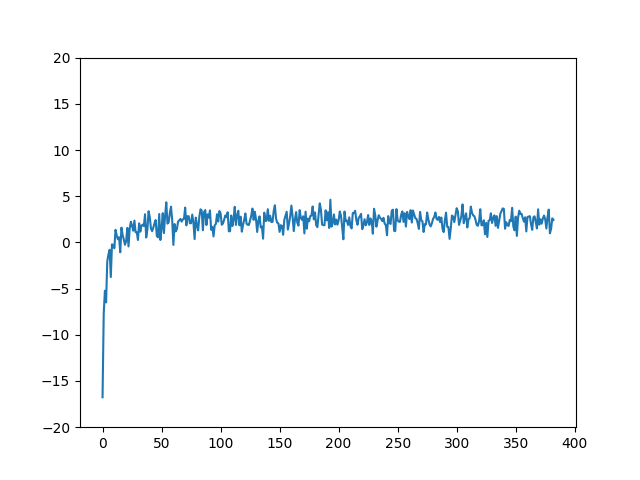
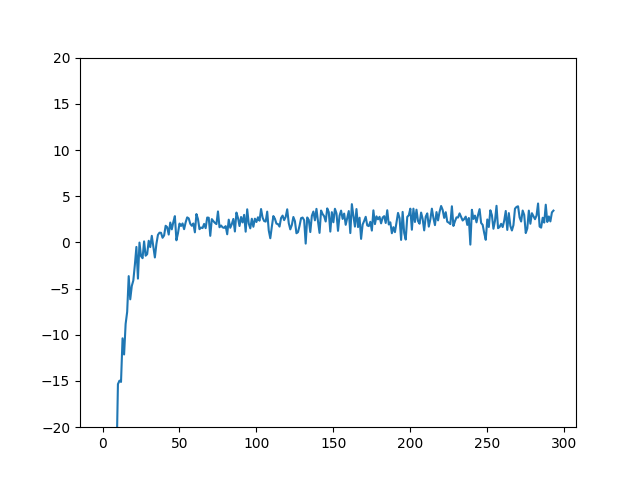
test score instead of train reward

diff --git a/RLAlgs.py b/RLAlgs.py
@@ -3,7 +3,7 @@ import random
 import gym
 
 
-def score(initState=None, iterN=100, env=None, model=None, epLimit=-1):
+def score(initState=None, iterN=100, env=None, model=None, epLimit=-1, printErr=False):
     rewards = np.zeros(iterN)
     for e in range(iterN):
         if initState is None:
@@ -19,7 +19,7 @@ def score(initState=None, iterN=100, env=None, model=None, epLimit=-1):
             act = model.policy(state)
             state, r, term, info = env.step(act)
             reward += r
-        if epLimit != -1 and i >= epLimit:
+        if epLimit != -1 and i >= epLimit and printErr:
             print("testing episode " + str(e) + " timed out with r " + str(reward))
         rewards[e] = reward
     return np.mean(rewards), rewards
@@ -31,6 +31,7 @@ def QLearning(initState=None, iterN=100000, env=None, model=None,
     backups = 0
     rewards = np.zeros(iterN)
     rewardsAvg = []
+    avg = -1000
 
     for e in range(iterN):
 
@@ -61,12 +62,20 @@ def QLearning(initState=None, iterN=100000, env=None, model=None,
 
         rewards[e] = reward
         if e % convN == 0:
-            print("episode " + str(e) + " r " + str(reward))
-        # converges if average reward of convN episodes is the same as the previous convN episodes
-            if reward > 0 and e >= 2 * convN:
+
+            # if True:
+            #     # tests without exploration or updating during the episode
+            #     prev = avg
+            #     avg, _ = score(iterN=20, model=model, env=env, epLimit=1000)
+            #     print("episode " + str(e) + " r " + str(avg))
+
+            if e >= 2 * convN:
+                # converges if average reward of convN episodes is the same as the previous convN episodes
                 avg = np.mean(rewards[e-convN+1:e+1])
-                rewardsAvg.append(avg)
+                print("episode " + str(e) + " r " + str(avg))
                 prev = np.mean(rewards[e-2*convN:e-convN])
+
+                rewardsAvg.append(avg)
                 diff = abs(avg - prev)
                 if diff < convThresh and avg > 0:
                     print("reward difference " + str(diff))

diff --git a/test.py b/test.py
@@ -17,7 +17,7 @@ def taxiTest():
     print("episodes " + str(episodes))
     print("avg train reward " + str(avgR))
 
-    score, sList = RLAlgs.score(model=model, env=env, epLimit=1000)
+    score, sList = RLAlgs.score(model=model, env=env, epLimit=1000, printErr=True)
     print("avg reward " + str(score))
 
     plt.plot(range(rewardsAvg.shape[0]), rewardsAvg)
